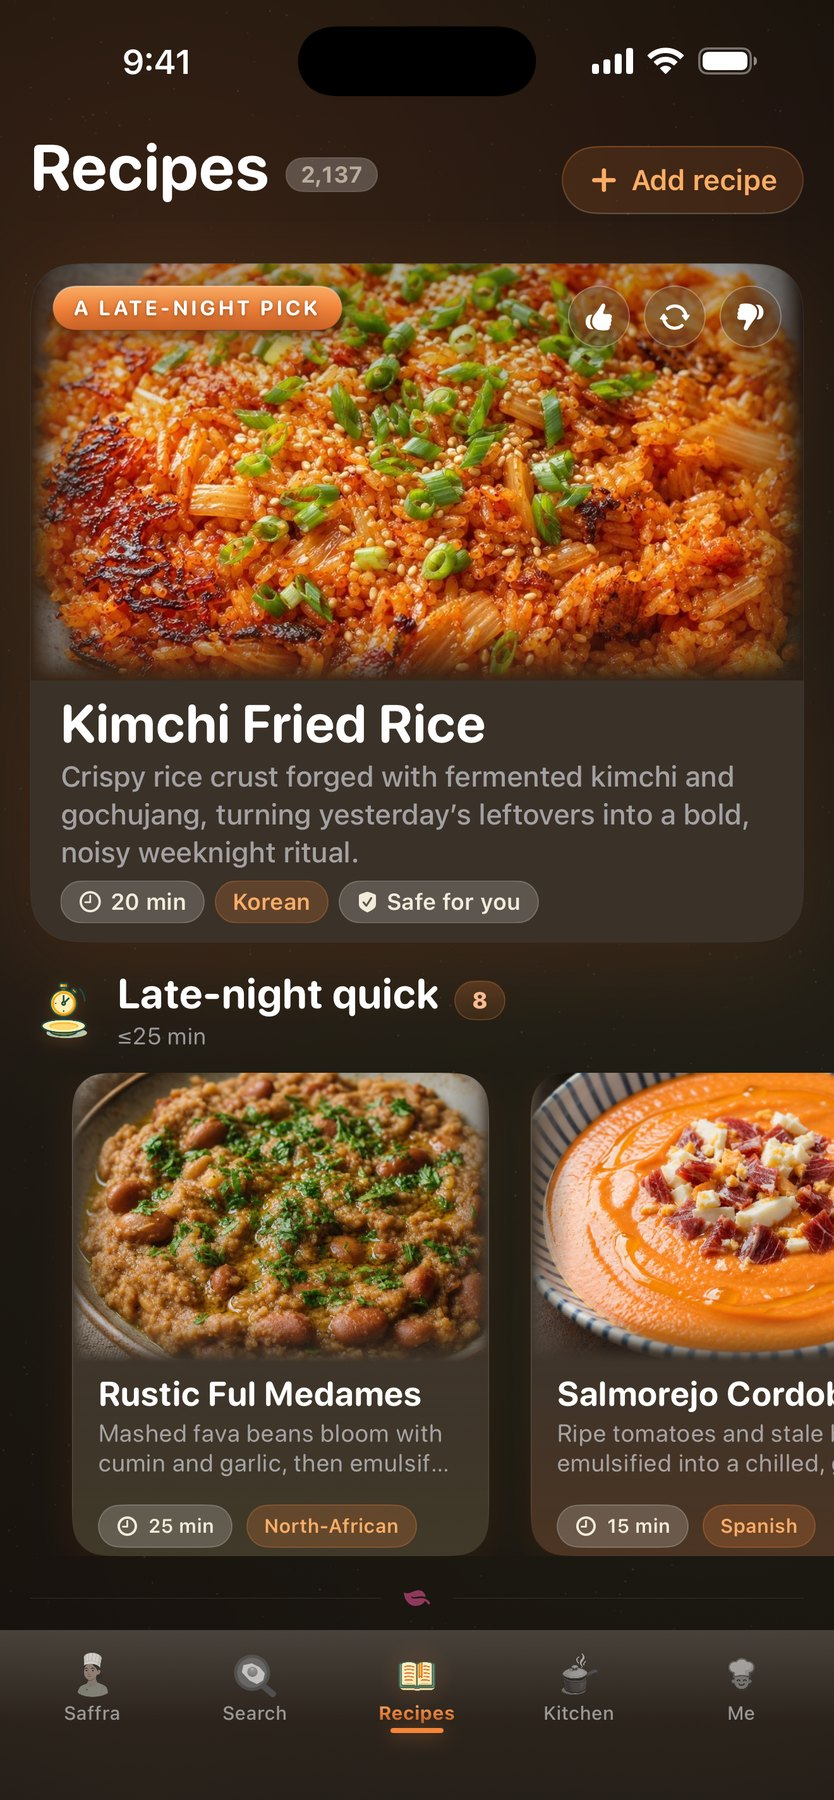
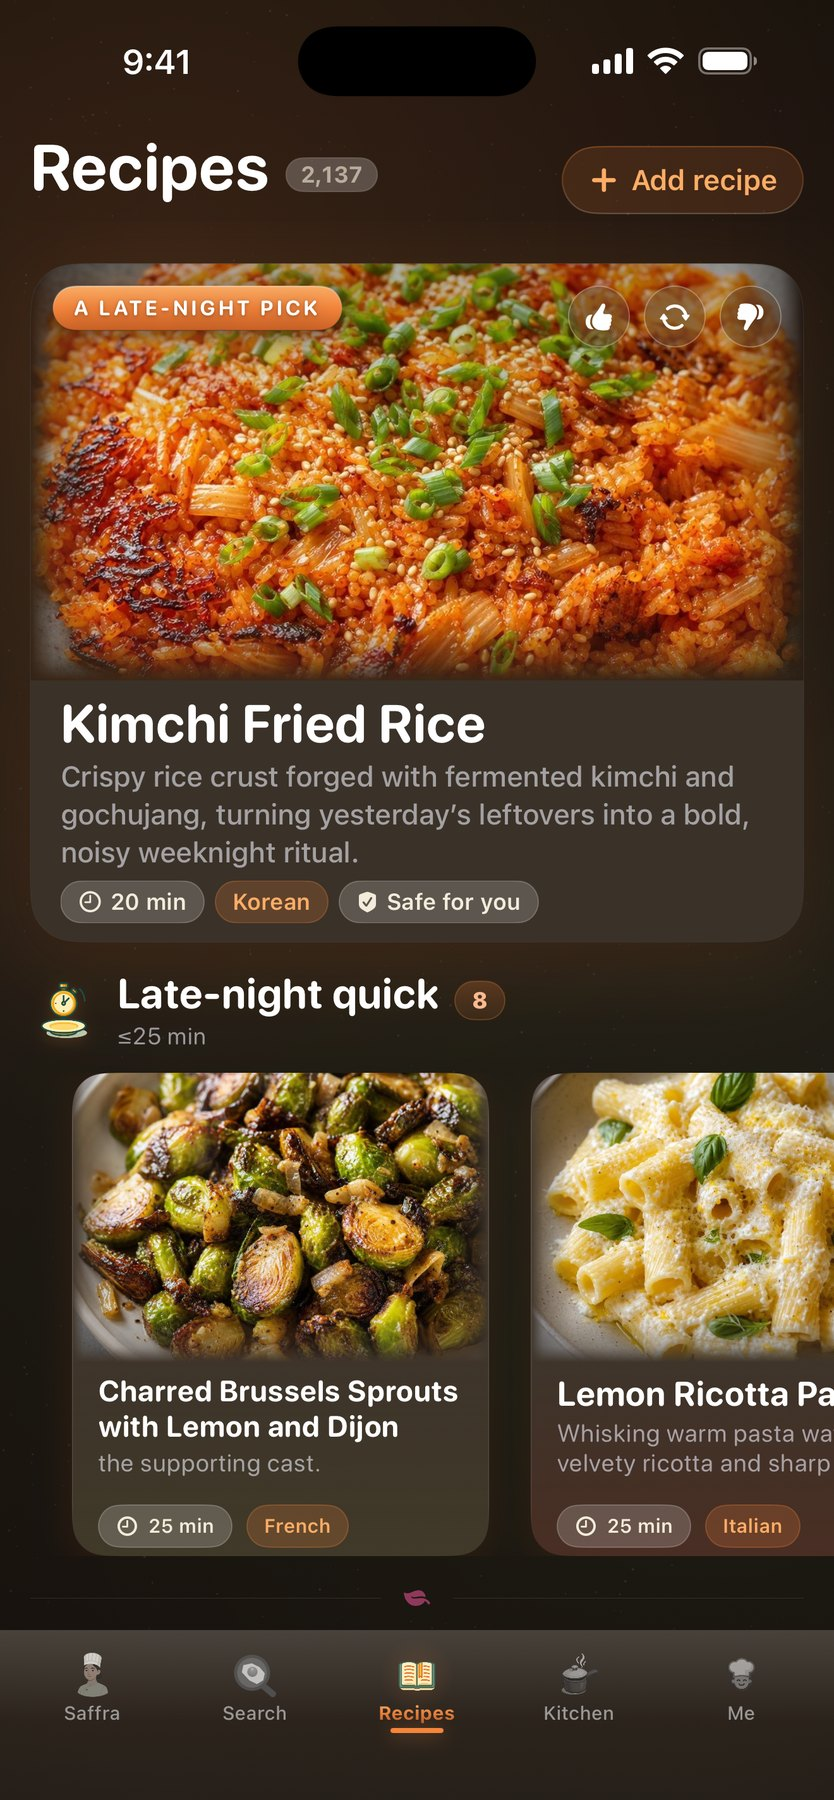
Saffra: late-night quick rail is no longer the dinner rail
The time-aware section shows all four meal slots side by side, and dinner and
late-night were sharing their second card — because the app computed both rails
from one candidate pool with one scoring pass. Fixed in the app (late-night now
allows desserts and drops the heaviest proteins, matching its own ranking); this
re-shoots the frame that proves it.

Dinner leads Queso Fundido / Salmorejo Cordobés; late-night leads Charred
Brussels Sprouts / Lemon Ricotta Pasta. No shared card.

Also drops 05-recipes-dark. It became unreferenced when the Search section moved
to the real search frame, and an image nothing links to is 200 KB of deploy
nobody sees. The set is 15 frames now, and every one is referenced — checked,
not assumed.

Changed region(s): [[0.0935, 0.5911, 0.5923, 0.8711], [0.6235, 0.5911, 1.0, 0.8711]]

diff --git a/saffra/index.html b/saffra/index.html
@@ -1219,32 +1219,32 @@
                dark captures alternate, but the visitor chooses when to advance. -->
           <div class="hero-phone-frame" id="heroRotator" aria-roledescription="carousel" aria-label="Saffra app walkthrough">
             <img class="hero-phone-img is-active"
-                 src="screenshots-raw/01-chef-tab-light.jpg?v=20260811e"
+                 src="screenshots-raw/01-chef-tab-light.jpg?v=20260811f"
                  width="417" height="900" fetchpriority="high" decoding="async"
                  data-caption="Pantry-aware ways to begin"
                  alt="Saffra Chef tab in light mode — pantry-aware quick-start prompts">
             <img class="hero-phone-img"
-                 src="screenshots-raw/07-chat-recipe-dark.jpg?v=20260811e"
+                 src="screenshots-raw/07-chat-recipe-dark.jpg?v=20260811f"
                  width="417" height="900" loading="lazy" decoding="async"
                  data-caption="Answers grounded in the recipe catalog"
                  alt="Ask Saffra in dark mode — she answers with a recipe pulled from the catalog">
             <img class="hero-phone-img"
-                 src="screenshots-raw/05-recipes-light.jpg?v=20260811e"
+                 src="screenshots-raw/05-recipes-light.jpg?v=20260811f"
                  width="417" height="900" loading="lazy" decoding="async"
                  data-caption="A trusted recipe catalog, ready to adapt"
                  alt="Recipes in light mode — the flagship catalog with Saffra's daily pick">
             <img class="hero-phone-img"
-                 src="screenshots-raw/02-cooking-mode-dark.jpg?v=20260811e"
+                 src="screenshots-raw/02-cooking-mode-dark.jpg?v=20260811f"
                  width="417" height="900" loading="lazy" decoding="async"
                  data-caption="Hands-free guidance while you cook"
                  alt="Cooking Mode in dark mode — hands-free voice with a suggested step timer">
             <img class="hero-phone-img"
-                 src="screenshots-raw/06-search-light.jpg?v=20260811e"
+                 src="screenshots-raw/06-search-light.jpg?v=20260811f"
                  width="417" height="900" loading="lazy" decoding="async"
                  data-caption="Search by meaning, not just title"
                  alt="Search in light mode — semantic recipe search across the whole catalog">
             <img class="hero-phone-img"
-                 src="screenshots-raw/10-recipes-dinner-dark.jpg?v=20260811e"
+                 src="screenshots-raw/10-recipes-dinner-dark.jpg?v=20260811f"
                  width="417" height="900" loading="lazy" decoding="async"
                  data-caption="Suggestions shaped for tonight"
                  alt="Recipes at dinner time in dark mode — Saffra picks for tonight">
@@ -1365,7 +1365,7 @@
       <div class="time-card anim anim-d1">
         <div class="time-tag"><svg viewBox="0 0 24 24"><circle cx="12" cy="12" r="4"/><path d="M12 2v2M12 20v2M4.93 4.93l1.41 1.41M17.66 17.66l1.41 1.41M2 12h2M20 12h2M4.93 19.07l1.41-1.41M17.66 6.34l1.41-1.41"/></svg>7:00 AM</div>
         <div class="shot-wrap">
-          <img src="screenshots-raw/08-recipes-breakfast-light.jpg?v=20260811e" width="417" height="900" loading="lazy"
+          <img src="screenshots-raw/08-recipes-breakfast-light.jpg?v=20260811f" width="417" height="900" loading="lazy"
                alt="Recipes tab in the morning — Saffra's breakfast pick and a Quick breakfast rail">
         </div>
         <h3>Morning</h3>
@@ -1374,7 +1374,7 @@
       <div class="time-card anim anim-d2">
         <div class="time-tag"><svg viewBox="0 0 24 24"><circle cx="12" cy="12" r="9"/><polyline points="12 7 12 12 15 14"/></svg>12:30 PM</div>
         <div class="shot-wrap">
-          <img src="screenshots-raw/09-recipes-lunch-light.jpg?v=20260811e" width="417" height="900" loading="lazy"
+          <img src="screenshots-raw/09-recipes-lunch-light.jpg?v=20260811f" width="417" height="900" loading="lazy"
                alt="Recipes tab at midday — Saffra's lunch pick with bowls and salads ranked first">
         </div>
         <h3>Midday</h3>
@@ -1383,7 +1383,7 @@
       <div class="time-card anim anim-d3">
         <div class="time-tag"><svg viewBox="0 0 24 24"><path d="M17 18a5 5 0 0 0-10 0"/><line x1="12" y1="9" x2="12" y2="2"/><line x1="4.22" y1="10.22" x2="5.64" y2="11.64"/><line x1="1" y1="18" x2="3" y2="18"/><line x1="21" y1="18" x2="23" y2="18"/><line x1="18.36" y1="11.64" x2="19.78" y2="10.22"/><line x1="23" y1="22" x2="1" y2="22"/></svg>6:30 PM</div>
         <div class="shot-wrap">
-          <img src="screenshots-raw/10-recipes-dinner-dark.jpg?v=20260811e" width="417" height="900" loading="lazy"
+          <img src="screenshots-raw/10-recipes-dinner-dark.jpg?v=20260811f" width="417" height="900" loading="lazy"
                alt="Recipes tab in the evening — Saffra picks for tonight with a Quick tonight rail">
         </div>
         <h3>Evening</h3>
@@ -1392,7 +1392,7 @@
       <div class="time-card anim anim-d4">
         <div class="time-tag"><svg viewBox="0 0 24 24"><path d="M21 12.79A9 9 0 1 1 11.21 3 7 7 0 0 0 21 12.79z"/></svg>11:50 PM</div>
         <div class="shot-wrap">
-          <img src="screenshots-raw/11-recipes-latenight-dark.jpg?v=20260811e" width="417" height="900" loading="lazy"
+          <img src="screenshots-raw/11-recipes-latenight-dark.jpg?v=20260811f" width="417" height="900" loading="lazy"
                alt="Recipes tab late at night — a late-night pick and a rail of 25-minute dishes">
         </div>
         <h3>Late night</h3>
@@ -1432,7 +1432,7 @@
       </div>
       <div class="fd-shots anim">
         <div class="fd-shot">
-          <img src="screenshots-raw/07-chat-recipe-dark.jpg?v=20260811e" width="417" height="900" loading="lazy"
+          <img src="screenshots-raw/07-chat-recipe-dark.jpg?v=20260811f" width="417" height="900" loading="lazy"
                alt="Ask Saffra — visible tool chips show her checking the pantry and searching recipes before answering with a recipe card">
           <div class="fd-shot-caption">Tool chips = her actually checking, live</div>
         </div>
@@ -1592,12 +1592,12 @@
       </div>
       <div class="fd-shots pair anim">
         <div class="fd-shot">
-          <img src="screenshots-raw/02-cooking-mode-light.jpg?v=20260811e" width="417" height="900" loading="lazy"
+          <img src="screenshots-raw/02-cooking-mode-light.jpg?v=20260811f" width="417" height="900" loading="lazy"
                alt="Cooking Mode step 1 — Saffra reads the step aloud with ingredient chips and a suggested 15-minute timer">
           <div class="fd-shot-caption">Step 1 — she's reading it aloud</div>
         </div>
         <div class="fd-shot">
-          <img src="screenshots-raw/14-cooking-step2-dark.jpg?v=20260811e" width="417" height="900" loading="lazy"
+          <img src="screenshots-raw/14-cooking-step2-dark.jpg?v=20260811f" width="417" height="900" loading="lazy"
                alt="Cooking Mode mid-recipe — the dish photo on the step card with progress bar and hands-free controls">
           <div class="fd-shot-caption">Mid-recipe, dark mode</div>
         </div>
@@ -1640,12 +1640,12 @@
       </div>
       <div class="fd-shots pair anim">
         <div class="fd-shot">
-          <img src="screenshots-raw/01-chef-tab-light.jpg?v=20260811e" width="417" height="900" loading="lazy"
+          <img src="screenshots-raw/01-chef-tab-light.jpg?v=20260811f" width="417" height="900" loading="lazy"
                alt="The Saffra tab — time-of-day greeting, pantry pills, and quick-start prompts">
           <div class="fd-shot-caption">The greeting knows your kitchen</div>
         </div>
         <div class="fd-shot">
-          <img src="screenshots-raw/07-chat-recipe-light.jpg?v=20260811e" width="417" height="900" loading="lazy"
+          <img src="screenshots-raw/07-chat-recipe-light.jpg?v=20260811f" width="417" height="900" loading="lazy"
                alt="Ask Saffra answering with a tappable recipe card after checking the pantry">
           <div class="fd-shot-caption">She answers with a real recipe</div>
         </div>
@@ -1692,7 +1692,7 @@
       </div>
       <div class="fd-shots anim">
         <div class="fd-shot">
-          <img src="screenshots-raw/03-pantry-light.jpg?v=20260811e" width="417" height="900" loading="lazy"
+          <img src="screenshots-raw/03-pantry-light.jpg?v=20260811f" width="417" height="900" loading="lazy"
                alt="The pantry — item counts by category with expiring and stale flags, plus photo, receipt, and barcode capture">
           <div class="fd-shot-caption">Grocery, fridge &amp; freshness at a glance</div>
         </div>
@@ -1728,7 +1728,7 @@
       </div>
       <div class="fd-shots anim">
         <div class="fd-shot">
-          <img src="screenshots-raw/06-search-light.jpg?v=20260811e" width="417" height="900" loading="lazy"
+          <img src="screenshots-raw/06-search-light.jpg?v=20260811f" width="417" height="900" loading="lazy"
                alt="Saffra's search results for &quot;pasta&quot; — 18 matches, with cuisine, time and diet refinements above the list">
           <div class="fd-shot-caption">Refine by cuisine, time and diet</div>
         </div>
@@ -1768,12 +1768,12 @@
       </div>
       <div class="fd-shots pair anim">
         <div class="fd-shot">
-          <img src="screenshots-raw/04-recipe-detail-light.jpg?v=20260811e" width="417" height="900" loading="lazy"
+          <img src="screenshots-raw/04-recipe-detail-light.jpg?v=20260811f" width="417" height="900" loading="lazy"
                alt="Recipe detail — hero photo with timing, difficulty, servings, and the Let's cook button">
           <div class="fd-shot-caption">The top: vitals + "Let's cook"</div>
         </div>
         <div class="fd-shot">
-          <img src="screenshots-raw/13-recipe-ingredients-dark.jpg?v=20260811e" width="417" height="900" loading="lazy"
+          <img src="screenshots-raw/13-recipe-ingredients-dark.jpg?v=20260811f" width="417" height="900" loading="lazy"
                alt="Recipe detail scrolled — the ingredient list checked against your pantry">
           <div class="fd-shot-caption">Below the fold: ingredients &amp; more</div>
         </div>
